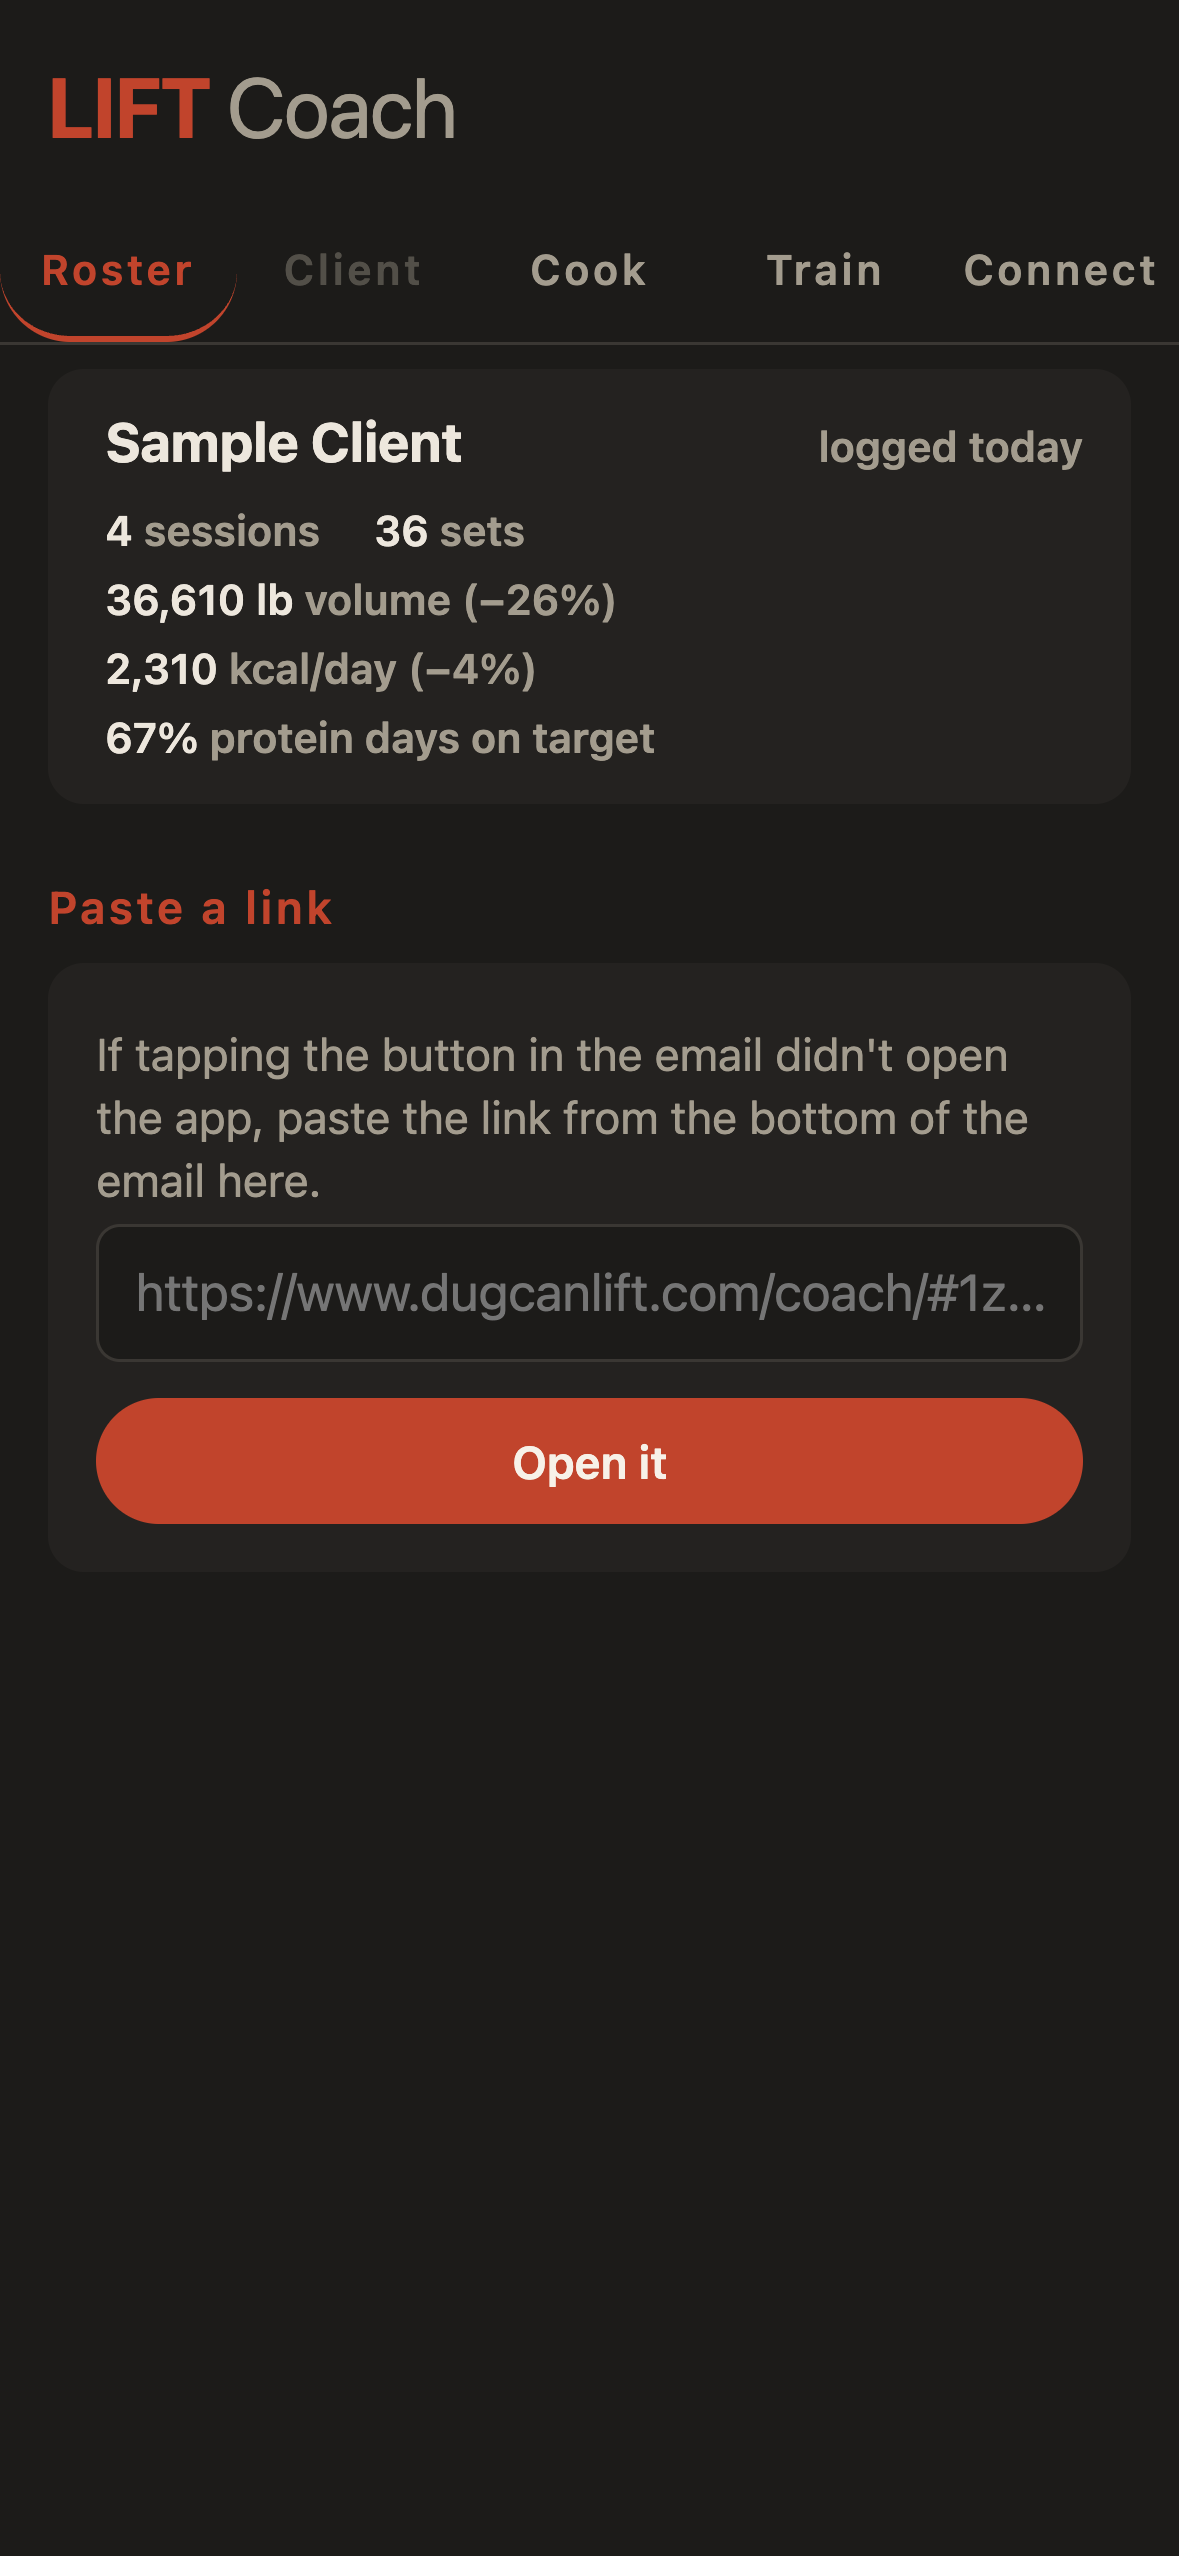
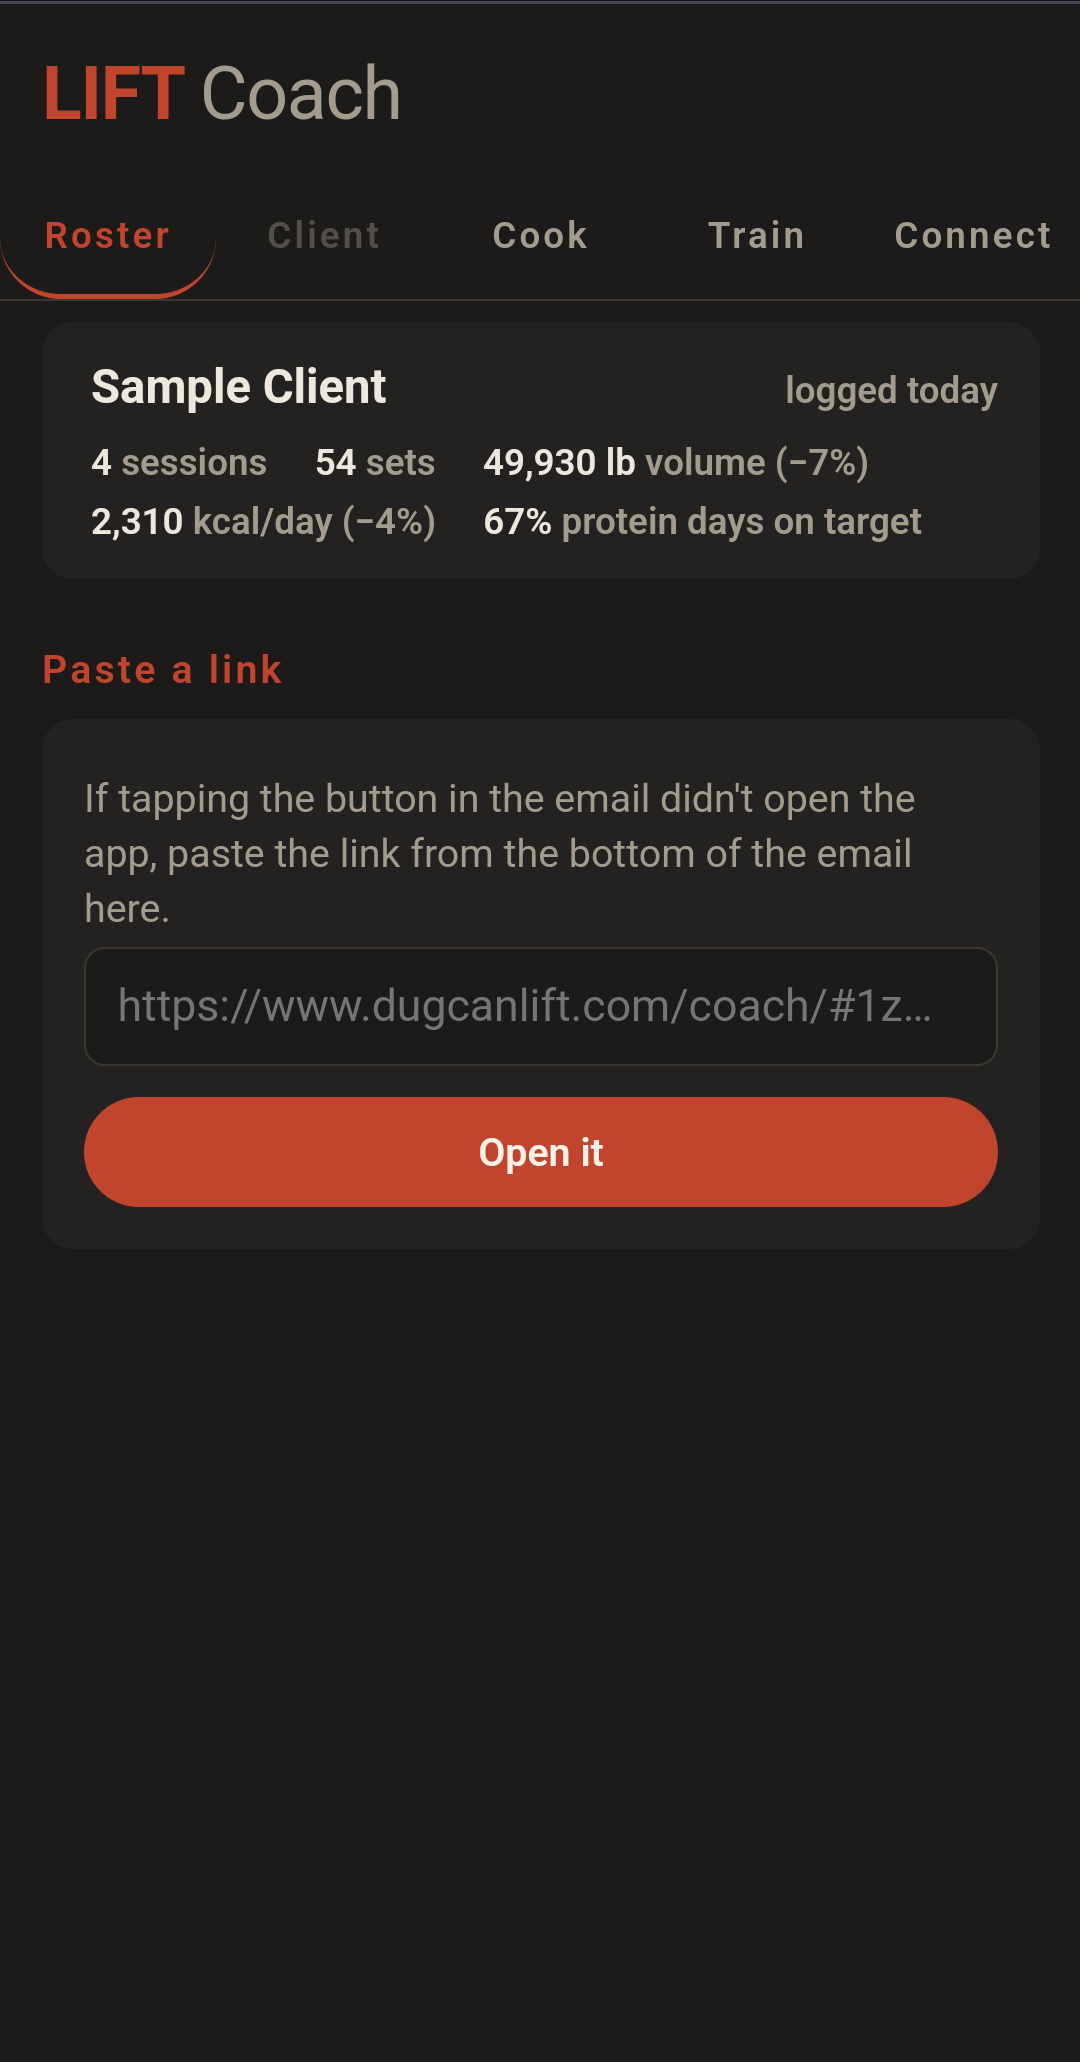
Reshoot the install pages, on the builds people now download
The screenshots were taken on 13 September. LIFT's three were captioned
"LIFT 1.5, on a phone" beside a button that hands you 1.16, and Coach's
desktop one shows a top tab row the app replaced with a sidebar -- so
that one was not merely old, it showed a layout that no longer exists.

Taken on the published APK (LIFT 1.16), on a Pixel emulator in dark mode
as the old ones were, from a seeded day restored through the app's own
"Restore from a backup file" rather than typed in: a 2,400 kcal goal
against 1,844 eaten, ten foods across four meals, and a Push A session
of seven sets. The Coach pair are the web app on the same phone with its
own "Load a sample client", which is how the originals were made.

**The seed's timestamps are what group the food, not its `meal` field.**
`mealForHour` decides the section, so the first attempt filed breakfast
under lunch and the screenshot showed Breakfast with one item in it. The
times in the seed are now the meals they claim to be, and the generator
asserts the two agree before writing the file.

Three resolutions changed. LIFT's go from 320x720 to 1080x2400, which is
the real win here -- they were being drawn at 200 CSS px from an image
barely wider than that. Coach's phone pair are 1080x2062 against
1179x2556, near enough.

**Coach's desktop shot is worse: 800x544 against 1600x1025, and it is
the one to replace properly.** It is a browser-pane capture, and the pane
[…]

diff --git a/lift-install.html b/lift-install.html
@@ -51,11 +51,11 @@ hide_title: true
   <p class="calc-sub" style="text-align:center;">The four screens you&rsquo;ll actually see, in order. All four want a tap; only the middle two are a permission, and you grant that once.</p>
 
   <h3>What you get</h3>
-  <p class="calc-sub">The app once it&rsquo;s in: your day against your goal, the food log grouped by meal, and a session being logged set by set. LIFT 1.5, on a phone.</p>
+  <p class="calc-sub">The app once it&rsquo;s in: your day against your goal, the food log grouped by meal, and a session being logged set by set. LIFT 1.16, on a phone.</p>
   <figure style="display:flex;gap:1rem;justify-content:center;align-items:flex-start;margin:2rem 0;flex-wrap:wrap;">
-    <img src="{{ '/assets/images/android/lift-home.png' | relative_url }}" alt="The LIFT Android home screen showing 546 kcal left of a 2,400 goal, macro bars, steps and the day's session" style="width:200px;max-width:30%;height:auto;border-radius:12px;">
-    <img src="{{ '/assets/images/android/lift-food.png' | relative_url }}" alt="The LIFT Android food log for a day, grouped by meal with calories and macros per entry" style="width:200px;max-width:30%;height:auto;border-radius:12px;">
-    <img src="{{ '/assets/images/android/lift-train.png' | relative_url }}" alt="The LIFT Android Train tab with focus modes, Start Run and Start Hike, and a Push A session with its sets" style="width:200px;max-width:30%;height:auto;border-radius:12px;">
+    <img src="{{ '/assets/images/android/lift-home.png' | relative_url }}" alt="The LIFT Android home screen showing 556 kcal left of a 2,400 goal, bars for protein, fat, carbs and fibre, a steps row and the day's Push A session" style="width:200px;max-width:30%;height:auto;border-radius:12px;">
+    <img src="{{ '/assets/images/android/lift-food.png' | relative_url }}" alt="The LIFT Android food log for a day, with the day's calories and macros above it and the entries grouped under Breakfast, Lunch, Dinner and Snack, each with its weight, calories, macros and saturated fat, sugar and sodium" style="width:200px;max-width:30%;height:auto;border-radius:12px;">
+    <img src="{{ '/assets/images/android/lift-train.png' | relative_url }}" alt="A Push A session open in the LIFT Android Train tab, reading 7 sets and 4640 lb volume, with Bench Press (Barbell) and Incline Press (Dumbbell) and every set's weight, reps and RPE" style="width:200px;max-width:30%;height:auto;border-radius:12px;">
   </figure>
 
   <h2>On a Wear OS watch</h2>

diff --git a/coach-install.html b/coach-install.html
@@ -56,7 +56,7 @@ hide_title: true
   </figure>
   <p class="calc-sub">Those two are a phone. Coach is mostly a laptop tool though &mdash; the week-by-week table is the reason:</p>
   <figure style="margin:1.5rem 0;">
-    <img src="{{ '/assets/images/web/coach-client.png' | relative_url }}" alt="Coach open in a desktop browser, showing a client's profile, this week's totals and a week-by-week table of sessions, sets, volume, calories, protein and steps" style="width:100%;height:auto;border-radius:12px;border:1px solid rgba(255,255,255,0.08);">
+    <img src="{{ '/assets/images/web/coach-client.png' | relative_url }}" alt="Coach open in a desktop browser: the roster down the left, a client's profile and this week's totals, a week-by-week table of sessions, sets, volume, calories, protein and steps for eight weeks, and training-volume and fuel-against-goal charts below it" style="width:100%;height:auto;border-radius:12px;border:1px solid rgba(255,255,255,0.08);">
   </figure>
   <p class="calc-sub">Eight weeks of a client on one screen, which is the view a phone can&rsquo;t really give you.</p>
 
